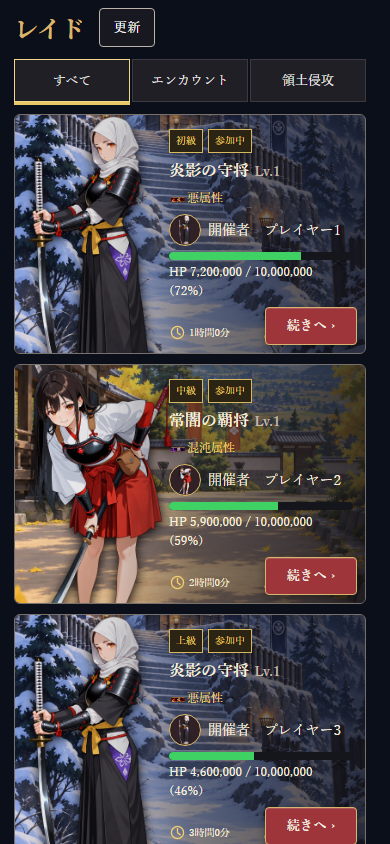
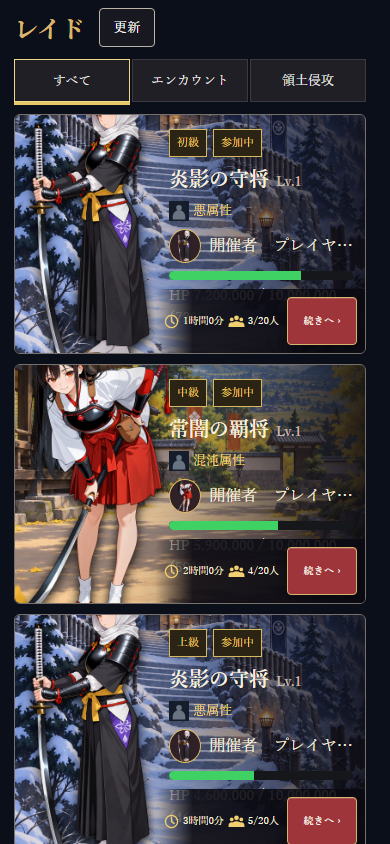
docs: record raid visual layer refactor verification

diff --git a/docs/design/raid/2026-09-23/comparison/verification-20260923.md b/docs/design/raid/2026-09-23/comparison/verification-20260923.md
@@ -1,62 +1,56 @@
-# レイドUI統合検証記録
+# レイドUI表示層 書き直し検証記録
 
 - Branch: `codex/game04-raid-approved-implementation-20260923`
-- Implementation SHA: `6f09fa588e18f9847f8cdbd8205d6546fb64e5e5`
-- Fixed Preview: https://game04-1rn9clbn7-kiyoshi-kitamura.vercel.app
-- Deployment: `dpl_FNLgcTWGpAxPxPz5YHRuPXwbs5ST` / Ready / Preview
+- Implementation SHA: `6018f2a5d00fcb6ab56bb9cb26e65fbb25a9445a`
+- Fixed Preview: https://game04-8fes2ifvp-kiyoshi-kitamura.vercel.app
+- Deployment: `dpl_DZy6PBMFySwqZdg1E7TVkeedUBty` / Ready / Preview
 
-## 配信先検証
+## 実装範囲
 
-固定Preview上で、各画面の必須データ・画像読込完了後に検証した。比較画像はローディング表示中に撮影していない。
+- `RaidApprovedVisual.tsx/.css` を新設し、カード、詳細ヒーロー、開催者、戦況、アクション、貢献欄、進捗意匠、赤CTAを共通表示部品化。
+- 本体一覧 `RaidTopApproved`、本体詳細 `RaidRoomDetail`、比較QA `/qa/raid-approved` が同じ共通表示部品を使用。
+- 旧 `RaidCardOverlay.css`、旧 `RaidRoomDetailApproved.css`、QA専用 `ApprovedRaidPreviewCorrection.css` を削除。旧クラス体系と重複上書きを対象範囲から除去。
+- 正式データ取得、開催者情報、既存の報酬・救援・挑戦コールバックは親コンポーネント側で保持。
 
-| Route | HTTP | GAME03旧文字列 | GAME04表示 | loader |
-|---|---:|---:|---:|---:|
-| `/qa/raid-approved` | 200 | 0 | 1 | 0 |
-| `/qa/raid-detail` | 200 | 0 | 1 | 0 |
-| `/qa/raid-top` | 200 | 0 | 3 | 0 |
+## 固定Preview検証
 
-- 「残り時間が短い順」の説明文は削除し、期限によるソート処理は維持。
-- 一覧は全面背景の上に人物を左、情報・操作を右へ重ね、情報面を不透明な分割面にしない構造へ修正。時間は相対表示、CTAは折返しなし。
-- 詳細下部は `.ui-hub-page-scroll` を実操作し、`scrollTop=328 / scrollHeight=1173 / clientHeight=844` を確認。
-- 同状態でコンパクトヘッダー=1、アクション=4、赤CTA=1、`.raid-detail__eligibility`=1、ローダー=0を確認。
+必須データ・画像の読み込み完了後に撮影。ローディング表示中の画像は提出していない。
+
+| Route | HTTP | GAME03旧文字列 | 表示確認 |
+|---|---:|---:|---|
+| `/qa/raid-approved` | 200 | 0 | 共通カード2件 |
+| `/qa/raid-top` | 200 | 0 | 共通カード4件 |
+| `/qa/raid-detail` | 200 | 0 | 共通詳細1件、loader=0 |
+
+- 詳細下部は同一 `.ui-hub-page-scroll` を操作し、`scrollTop=305 / scrollHeight=1149 / clientHeight=844` を確認。
+- 同じ詳細表示部品で、コンパクト表示=1、アクション=4、貢献欄=1、赤CTA=1を確認。
 - `npm run typecheck`: PASS。
-- `NEXT_PUBLIC_USE_MOCK_DB=true` 等のPreview用環境変数で `npm run build`: PASS。
+- `NEXT_PUBLIC_USE_MOCK_DB=true` 等で `npm run build`: PASS。
 
-## 比較画像（同一実装SHA）
+## 比較画像
 
-- [一覧：承認モック｜本体](./raid-approved-mock-list-vs-body.png)
-- [詳細：承認モック｜本体](./raid-approved-mock-detail-vs-body.png)
-- [詳細下部：承認モック｜本体](./raid-approved-mock-lower-vs-body.png)
-- [承認Preview 390px](./raid-approved-preview-390.png)
-- [本体一覧 390px](./raid-body-top-390.png)
-- [本体詳細上部 390px](./raid-body-detail-390.png)
-- [本体詳細下部 390px](./raid-body-detail-lower-390.png)
+- [一覧比較](./raid-approved-mock-list-vs-body.png)
+- [詳細比較](./raid-approved-mock-detail-vs-body.png)
+- [詳細下部比較](./raid-approved-mock-lower-vs-body.png)
+- [固定Preview一覧](./raid-approved-preview-390.png)
+- [本体詳細上部](./raid-body-detail-390.png)
+- [本体詳細下部](./raid-body-detail-lower-390.png)
 
-## 差分修正結果
+## データ接続
 
-| 指摘 | 結果 |
-|---|---|
-| 一覧の人物／情報の左右配置 | 左人物・右情報の全面重ね合わせへ修正済み |
-| 透過・不透明面 | 背景を隠す不透明な左右分割面を廃止し、右側の透過グラデーションへ修正済み |
-| 時間表示 | 相対時間表示へ修正。説明文は追加していない |
-| CTA折返し | `white-space: nowrap` と収まりを調整し、固定390pxで確認済み |
-| 詳細下部 | コンパクトヘッダー、2×2アクション、貢献欄、3つの丸形進捗、赤CTAを同一スクロール状態で確認済み |
-| ローディング撮影 | 本体詳細の必須アクション表示と loader=0 を待って再撮影済み |
+- GAME04マスター：`src/domain/redesign/raid.ts` の `RAID_MASTERS`。
+- 採用ID：`encounter_flame` / `unlock_shadow`。
+- 表示経路：`RAID_MASTERS → resolveRaidTopEnemy → RaidTopEntry.enemy → 共通表示部品`。
+- 開催者・HP・参加者・期限・報酬・救援・挑戦の取得／操作経路は変更していない。
+- `キングス・クラウン`、`SHINJUKU`、`char_reiji_01` は3ルートの表示本文に0件。
 
-## GAME04正式マスタ接続
+## 残件
 
-- 採用根拠：`docs/design/raid/2026-09-23/comparison/master-connection.md` および `docs/design/raid/2026-09-23/IMPLEMENTATION_VERIFICATION.md`。
-- マスター所在：`src/domain/redesign/raid.ts` の `RAID_MASTERS`。IDは `encounter_flame`、`unlock_shadow`。
-- 関連投入履歴：`supabase/migrations/20260919151837_game04_territory_invasion.sql`。投入版は `game04_redesign_master / PREVIEW_PROVISIONAL_20260920_v1`。
-- 表示経路：`RAID_MASTERS → resolveRaidTopEnemy → RaidTopEntry.enemy → RaidTopApproved / RaidRoomDetail / ApprovedRaidPreview`。一覧・詳細・比較QAを同一経路へ統一。
-- `raid_production_20260830.json`、`キングス・クラウン`、`SHINJUKU`、`char_reiji_01` は表示経路から除外。旧RPCが `raidVariantId` を返すケースのサーバー側ID移行は未完了で、暫定的な表示マッピングで成功扱いにしていない。
+- 本体RPCの旧 `raidVariantId` からGAME04 IDへのサーバー側移行。
+- `game04_redesign_master` の `PREVIEW_PROVISIONAL_20260920_v1` から正式承認版への昇格。
+- 承認モック専用背景の供給。
+- 未承認SVG9種：`clock.svg`、`people.svg`、`swords.svg`、`scroll.svg`、`handshake.svg`、`chest.svg`、`armor.svg`、`victory.svg`、`medal.svg`。正式採用済みとは扱わない。
 
-## 残件（素材待ちと機能残件を分離）
-
-素材待ち：承認モック専用レイド背景、および `public/ui/raid/` の未承認SVG9種。文字・別用途素材・簡易図形で正式素材扱いにはしていない。
-
-未承認SVG9種：`clock.svg`、`people.svg`、`swords.svg`、`scroll.svg`、`handshake.svg`、`chest.svg`、`armor.svg`、`victory.svg`、`medal.svg`。正式共通素材供給後に差替える。
-
-機能／データ残件：本体RPCの旧 `raidVariantId` → GAME04 ID移行、`game04_redesign_master` の正式承認版への昇格、Mock環境の `get_quest_raid_bonus_v1` QA stub（console clean受入）。配置・透過・余白・進捗意匠・スクロール操作は素材待ちではなく今回完了扱い。
+配置・透過・旧レイアウト除去・重複表示除去・詳細下部のスクロール構造は素材待ちではなく今回完了扱い。
 
 Production公開・mainマージは実施していない。
